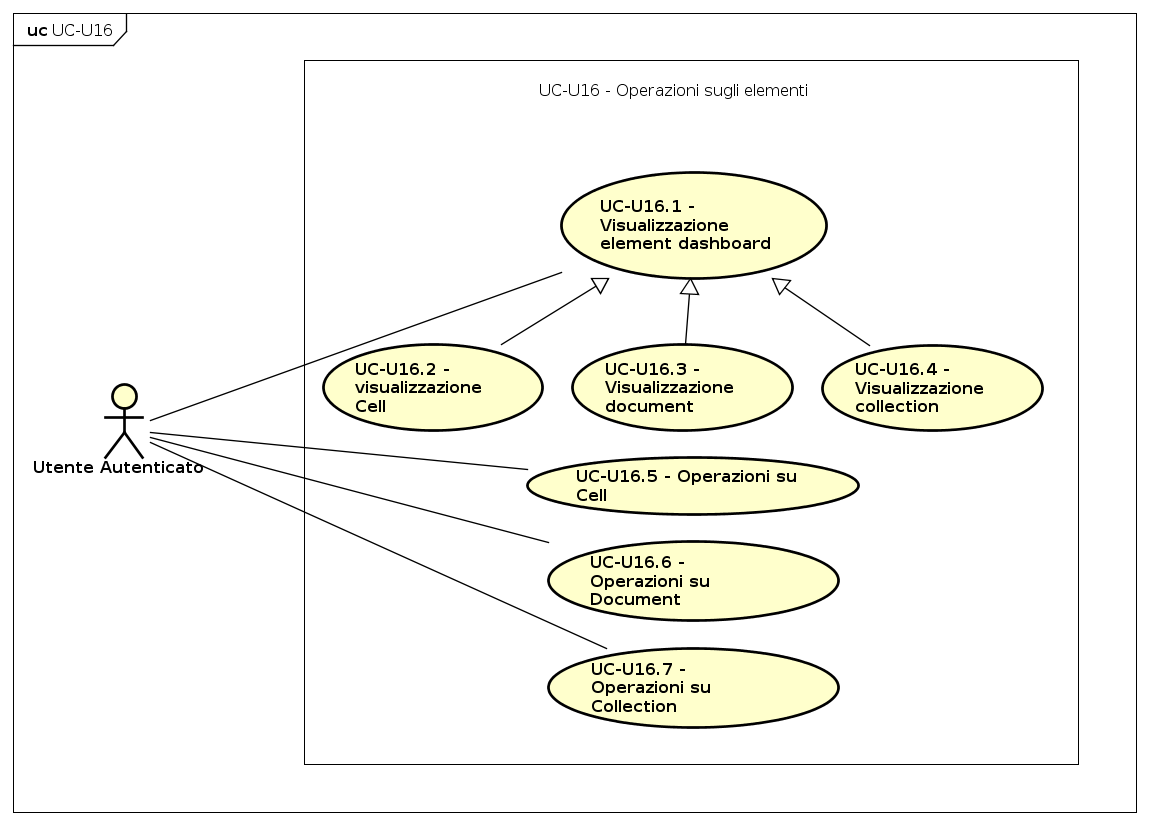
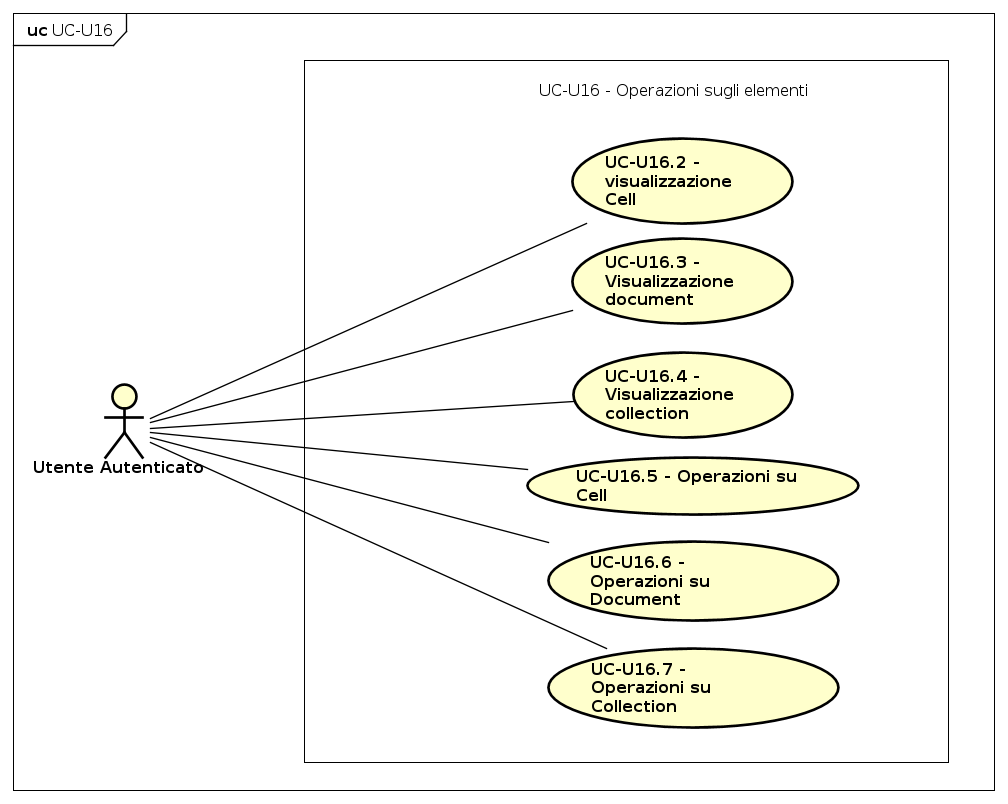
UC-U16.1 deleted - Section: "Utente autenticato, UC-U16"

diff --git a/official/AnalisiDeiRequisiti/res/sections/requisiti.tex b/official/AnalisiDeiRequisiti/res/sections/requisiti.tex
@@ -66,7 +66,7 @@ Dove:
 	
 	R1O 4 & Funzionale \newline Obbligatorio & L’Utente Autenticato deve poter accedere alla pagina \glossaryItem{Dashboard}, visualizzarne il contenuto ed effettuare delle operazioni sugli elementi presenti. &  Capitolato \newline UC-U15, UC-U15.1  \newline  \\ \hline
 	
-	R1O 4.1 & Funzionale \newline Obbligatorio & L’Utente Autenticato deve poter visualizzare un elemento della \glossaryItem{Dashboard}, che può essere una \glossaryItem{Cell}, un \glossaryItem{Document} oppure una \glossaryItem{Collection}. &  Capitolato \newline UC-U15, UC-U16, UC-U16.1, UC-U16.2, UC-U16.3, UC-U16.4  \newline  \\ \hline
+	R1O 4.1 & Funzionale \newline Obbligatorio & L’Utente Autenticato deve poter visualizzare un elemento della \glossaryItem{Dashboard}, che può essere una \glossaryItem{Cell}, un \glossaryItem{Document} oppure una \glossaryItem{Collection}. &  Capitolato \newline UC-U15, UC-U16, UC-U16.2, UC-U16.3, UC-U16.4  \newline  \\ \hline
 	
 	R1O 4.2 & Funzionale \newline Obbligatorio & L’Utente Autenticato deve poter effettuare un’operazione su un elemento della \glossaryItem{Dashboard}, che può essere una \glossaryItem{Cell}, un \glossaryItem{Document} o una \glossaryItem{Collection}. &  Capitolato \newline UC-U15, UC-U16  \newline  \\ \hline
 	
@@ -297,7 +297,7 @@ Dove:
     R1O 3.5 & Capitolato, UC-U13, UC-U13.2, UC-U13.3\\ \hline
     R1O 3.6 & Capitolato, UC-U13, UC-U13.4\\ \hline
     R1O 4 & Capitolato, UC-U15, UC-U15.1 \\ \hline
-    R1O 4.1 & Capitolato, UC-U15, UC-U16, UC-U16.1, UC-U16.2, UC-U16.3, UC-U16.4 \\ \hline
+    R1O 4.1 & Capitolato, UC-U15, UC-U16, UC-U16.2, UC-U16.3, UC-U16.4 \\ \hline
     R1O 4.2 & Capitolato, UC-U15, UC-U16 \\ \hline
     R1O 4.2.1 & Capitolato, UC-U15, UC-U16, UC-U16.5, UCU16.5.1, UCU16.5.2, UC-U16.5.3 \\ \hline
     R1O 4.2.2 & Capitolato, UC-U15, UC-U16, UC-U16.6.1, UC-U16.6.2, UC-U16.6.3 \\ \hline
@@ -399,7 +399,7 @@ Dove:
     UC-U15 & R1O 4, R1O 4.1, R1O 4.2, R1O 4.2.1, R1O 4.2.2, R1O 4.2.3, R1O 4.2.4, R1O 4.2.5, R1O 4.2.6  \\ \hline
     UC-U15.1 & R1O 4  \\ \hline
     UC-U15.2 & R1O 4.2.5  \\ \hline
-    UC-U16.1, UC-U16.2, UC-U16.3, UC-U16.4 & R1O 4.1  \\ \hline
+    UC-U16.2, UC-U16.3, UC-U16.4 & R1O 4.1  \\ \hline
     UC-U16.5, UC-U16.5.1, UC-U16.5.2, UC-U16.5.3 & R1O 4.2.1  \\ \hline
     UC-U16.6.1, UC-U16.6.2, UC-U16.6.3 & R1O 4.2.2  \\ \hline
     UC-U16.6.4, UC-U16.6.5 & R1O 4.2.3  \\ \hline

diff --git a/official/AnalisiDeiRequisiti/res/sections/utenteA.tex b/official/AnalisiDeiRequisiti/res/sections/utenteA.tex
@@ -826,9 +826,7 @@ Di seguito vengono elencati i \glossaryItem{casi d'uso} per l'Utente Autenticato
         \textbf{Precondizioni}  & L'Utente Autenticato ha visualizzato la pagina iniziale \glossaryItem{Dashboard}. \\ 
         
         \textbf{Postcondizioni} & L'applicazione ha eseguito le operazioni sulle righe della \glossaryItem{Dashboard} richieste dall'Utente Autenticato. \\ 
-        \textbf{Scenario principale} & 1. Visualizzazione element \glossaryItem{Dashboard} (UC-U16.1)
-        
-1.1 L'utente visualizza una \glossaryItem{Cell} (UC-U16.2)
+        \textbf{Scenario principale} & 1.1 L'utente visualizza una \glossaryItem{Cell} (UC-U16.2)
 
 1.2 L'utente visualizza un \glossaryItem{Document} (UC-U16.3)
 
@@ -841,28 +839,6 @@ Di seguito vengono elencati i \glossaryItem{casi d'uso} per l'Utente Autenticato
 2.2 L'utente effettua un'operazione su un \glossaryItem{Document} (UC-U16.6)
 
 2.3 L'utente effettua un'operazione su una \glossaryItem{Collection} (UC-U16.7) \\
-      \end{longtable}
-      \egroup
-    \end{center}
-    
-
-\subsubsection{Visualizzazione element Dashboard}
-    %Tabella 
-    \begin{center}
-      \bgroup
-      \def\arraystretch{1.8}     
-      \begin{longtable}{  p{3.5cm} | p{8cm} } 
-        
-        \hline
-        \multicolumn{2}{ | c | }{ \cellcolor[gray]{0.9} \textbf{UC-U16.1 - Visualizzazione element \glossaryItem{Dashboard}}} \\ 
-        \hline
-        
-        \textbf{Attori Primari} & Utente autenticato \\ 
-        \textbf{Scopo e Descrizione} & L'Utente Autenticato può visualizzare un element dalla \glossaryItem{Dashboard} (che può essere una \glossaryItem{Cell}, un \glossaryItem{Document} o una \glossaryItem{Collection}). \\ 
-        
-        \textbf{Precondizioni}  & L'Utente Autenticato ha visualizzato la pagina \glossaryItem{Dashboard}. \\ 
-        
-        \textbf{Postcondizioni} & L'Utente Autenticato viene reindirizzato alla pagina di visione dell'element selezionato. \\ 
       \end{longtable}
       \egroup
     \end{center}
